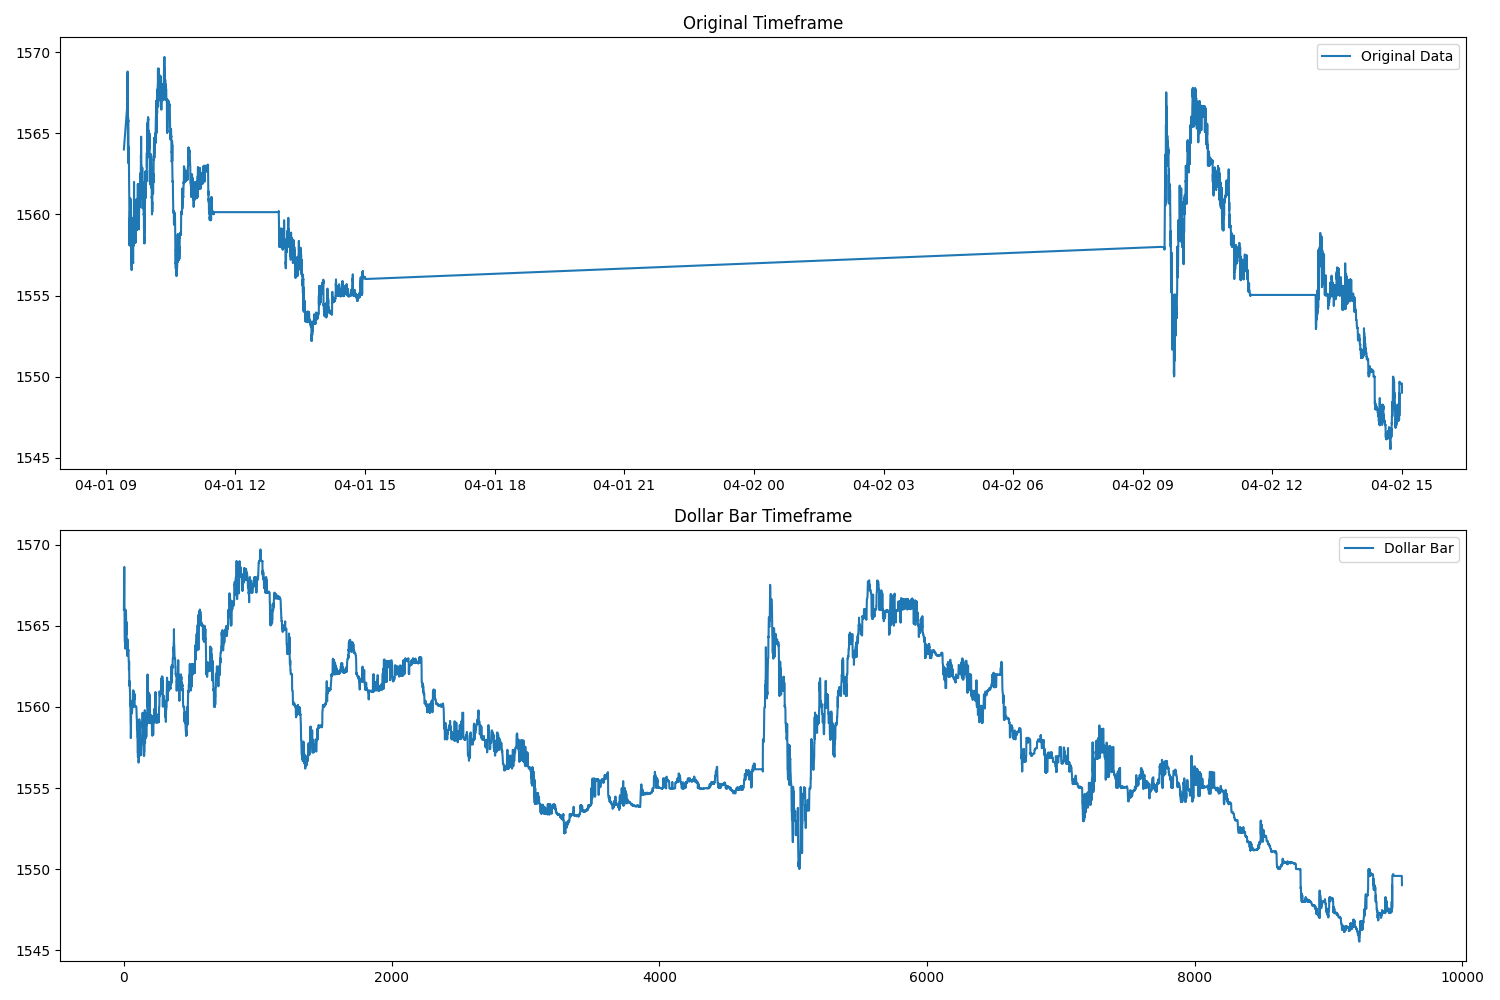
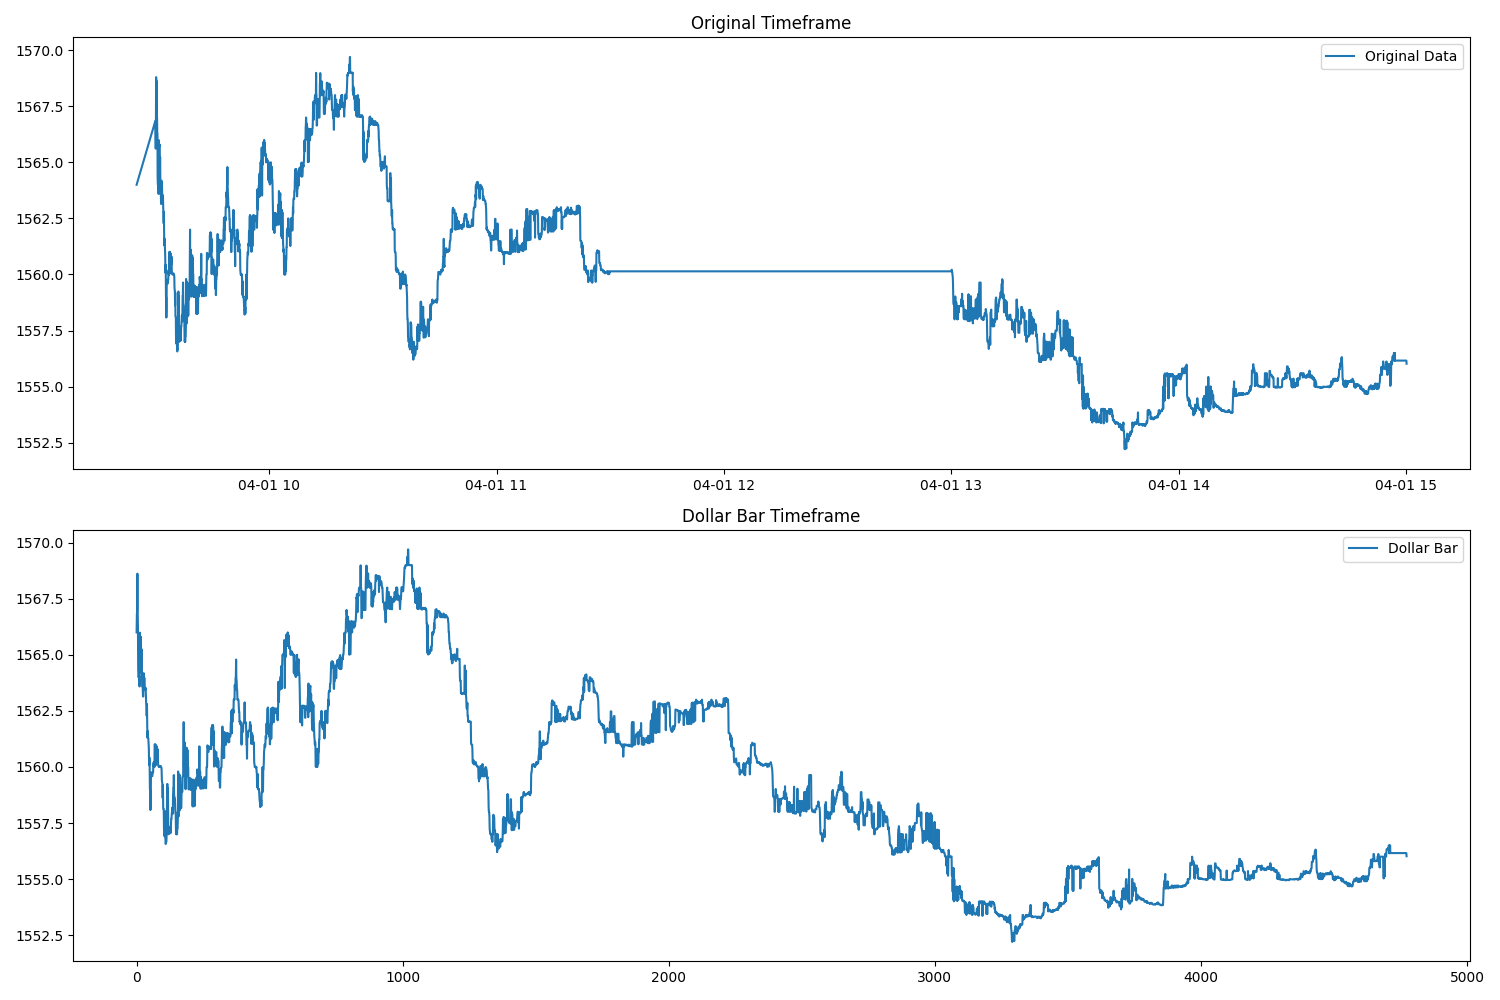
更新时间框架比较图，修复数据处理逻辑中的时间索引转换，调整Dollar Bar策略中的日期时间参数设置。

diff --git a/feed/qmt_feed.py b/feed/qmt_feed.py
@@ -350,7 +350,7 @@ class QMTDataFeed(DataFeed):
                         if not isinstance(df.index, pd.DatetimeIndex):
                             self.logger.info(f"转换股票 {stock_code} 的时间索引...")
                             # 将索引转换为datetime格式，然后格式化为年月日时分秒
-                            df.index = pd.to_datetime(df.index).strftime('%Y-%m-%d %H:%M:%S')
+                            df.index = pd.to_datetime(df.index)
                         processed_data[stock_code] = df
                         self.logger.info(f"股票 {stock_code} 数据处理完成，数据量: {len(df)}")
                     except Exception as e:

diff --git a/strategies/futures/dollar_bar.py b/strategies/futures/dollar_bar.py
@@ -283,7 +283,7 @@ def main():
     logger.info("转换数据为Backtrader格式...")
     original_bt_data = bt.feeds.PandasData(
         dataname=original_data,
-        datetime=None,
+        datetime=-1,
         open='open',
         high='high',
         low='low',
@@ -344,7 +344,7 @@ def main():
     plt.figure(figsize=(15, 10))
     
     plt.subplot(2, 1, 1)
-    plt.plot(original_data.index, original_data['lastPrice'], label='Original Data')
+    plt.plot(original_data.index.strftime('%Y-%m-%d %H:%M:%S'), original_data['lastPrice'], label='Original Data')
     plt.title('Original Timeframe')
     plt.legend()
     

diff --git a/core/data_feed.py b/core/data_feed.py
@@ -69,4 +69,4 @@ class DataFeed(ABC):
             start_time: 开始时间
             end_time: 结束时间
         """
-        pass 
+        pass
